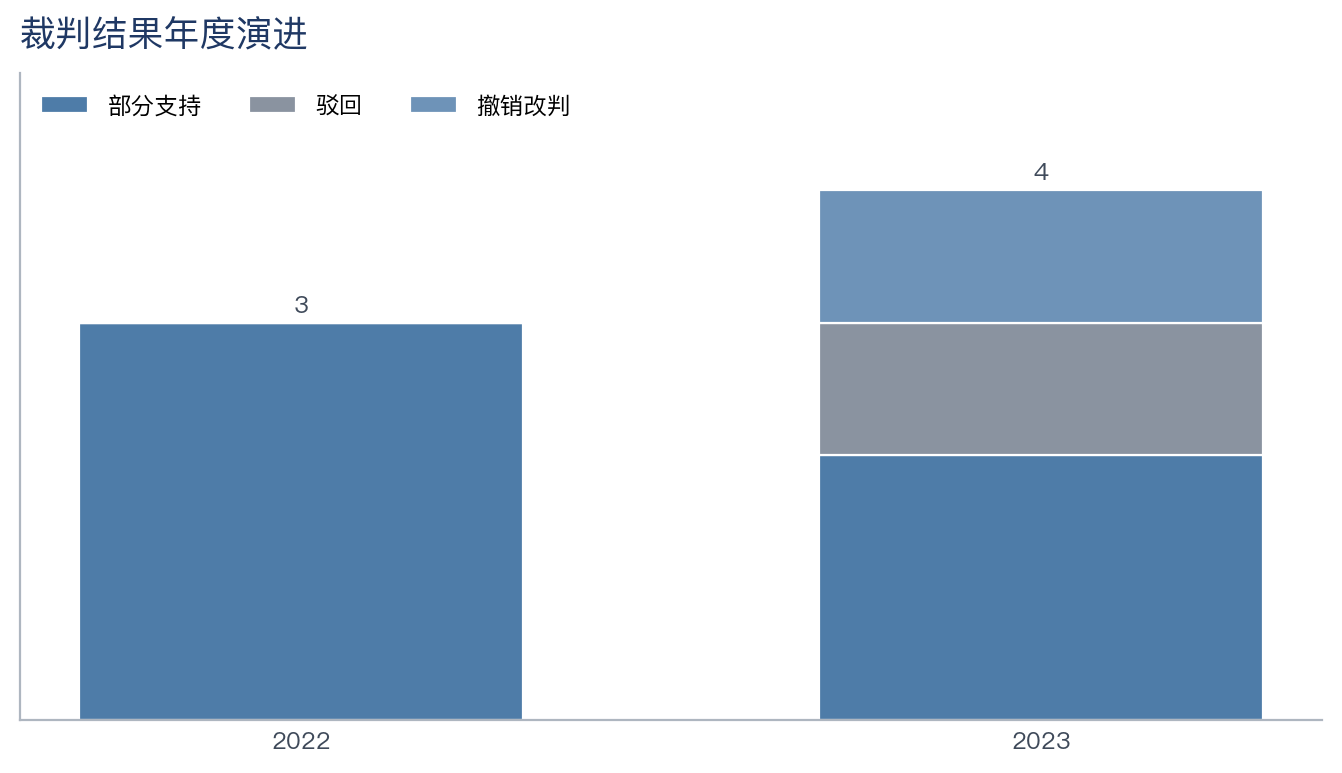
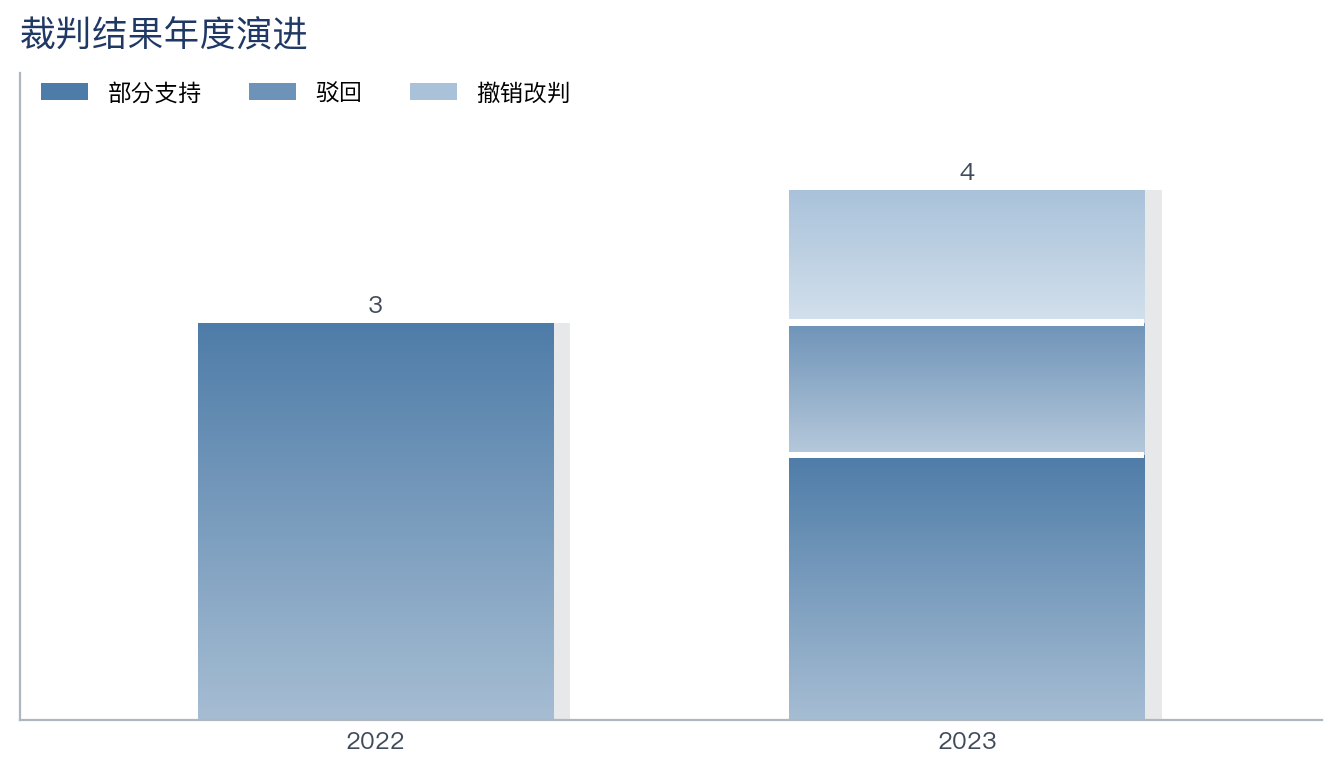
feat: 图表风格统一（堆叠柱渐变化）+ 实案报告证据线/理论展开规范固化
实战反馈第二轮：

- chart_theme.stacked_year 重写：与 hbar/vbar 同一视觉语言（冷蓝系渐变分段+整柱柔投影
  +白色细分隔线+图例 Patch）；RESULT_COLORS 去灰改全蓝系递进；_gbar_v 支持 y0 起点。
  两 demo 图表已按新风格重出。
- report-neutral 模板固化两项新规范：
  · 类案规则章深挖案五件套→六件套：新增④证据对照表（争议焦点|原告举证|被告举证|
    法院采信，未详列处如实标注）；
  · 全景章"①争点界定"必须含 100-200 字理论展开（制度功能+理论背景：信息过滤器/
    欺诈市场理论/看门人机制等），不得一句带过即进案例；
  · 实案模式控辩要点表后必配"控辩证据准备清单"（从法院实际采信证据归纳）。

diff --git a/scripts/chart_theme.py b/scripts/chart_theme.py
@@ -23,7 +23,8 @@ NAVY = "#1F3864"; BLUE2 = "#2E5A88"; BLUE3 = "#4E7CA8"; STEEL = "#6E93B8"; PALE 
 RED  = "#9B1B30"   # 强调（北大红系），仅用于单点高亮
 G1 = "#3F4A5A"; G2 = "#8A93A0"; G3 = "#AEB6C0"; G4 = "#E3E7EC"
 PALETTE = [NAVY, BLUE3, STEEL, BLUE2, PALE]            # 分类用（同色系递进）
-RESULT_COLORS = {"全部支持": NAVY, "部分支持": BLUE3, "驳回": G2, "撤销改判": STEEL}
+# 结果配色统一冷蓝系递进（不混灰），与渐变条形图视觉语言一致
+RESULT_COLORS = {"全部支持": NAVY, "部分支持": BLUE3, "驳回": STEEL, "撤销改判": PALE}
 
 _CJK_CANDIDATES = ["Noto Sans CJK SC", "Noto Sans CJK HK", "Noto Sans CJK JP",
                    "Source Han Sans SC", "PingFang SC", "Microsoft YaHei", "SimHei",
@@ -70,12 +71,14 @@ def _gbar_h(ax, y, w, base, h=0.6, shadow=True):
     clip = plt.Rectangle((0, y-h/2), w, h, fill=False, lw=0); ax.add_patch(clip); im.set_clip_path(clip)
     ax.add_patch(plt.Rectangle((0, y+h/2-h*0.10), w, h*0.10, facecolor="white", alpha=0.18, zorder=3, lw=0))
 
-def _gbar_v(ax, x, hgt, base, w=0.6, shadow=True):
+def _gbar_v(ax, x, hgt, base, w=0.6, shadow=True, y0=0.0):
+    if hgt <= 0:
+        return
     if shadow:
-        ax.add_patch(plt.Rectangle((x-w/2+0.03, 0), w, hgt, facecolor="#1b2733", alpha=0.10, zorder=1, lw=0))
+        ax.add_patch(plt.Rectangle((x-w/2+0.03, y0), w, hgt, facecolor="#1b2733", alpha=0.10, zorder=1, lw=0))
     light = "#%02x%02x%02x" % tuple(int(v*255) for v in _lighten(base, 0.5))
-    im = ax.imshow(_grad(light, base, False), extent=[x-w/2, x+w/2, 0, hgt], aspect="auto", zorder=2, origin="lower")
-    clip = plt.Rectangle((x-w/2, 0), w, hgt, fill=False, lw=0); ax.add_patch(clip); im.set_clip_path(clip)
+    im = ax.imshow(_grad(light, base, False), extent=[x-w/2, x+w/2, y0, y0+hgt], aspect="auto", zorder=2, origin="lower")
+    clip = plt.Rectangle((x-w/2, y0), w, hgt, fill=False, lw=0); ax.add_patch(clip); im.set_clip_path(clip)
 
 # ---------- 对外绘图原语 ----------
 def hbar_panel(ax, counter, title, color=NAVY, highlight_max=False):
@@ -110,21 +113,40 @@ def vbar_panel(ax, counter, title, color=NAVY):
     ax.set_title(title, loc="left", fontsize=10.5, fontweight="bold", color=G1, pad=6)
 
 def stacked_year(ax, years, data, title, cats=("全部支持", "部分支持", "驳回", "撤销改判")):
-    """堆叠柱：data = {类别: [各年计数]}。"""
+    """堆叠柱：data = {类别: [各年计数]}。
+    与 hbar/vbar 同一视觉语言：冷蓝系渐变分段 + 整柱柔投影 + 白色细分隔线。"""
     _style(ax); ax.set_yticks([])
-    bottom = [0]*len(years)
-    for c in cats:
-        vals = data.get(c)
-        if not vals or sum(vals) == 0:
-            continue
-        ax.bar(years, vals, bottom=bottom, label=c, color=RESULT_COLORS.get(c, NAVY),
-               width=0.6, edgecolor="white", linewidth=0.8)
-        bottom = [b+v for b, v in zip(bottom, vals)]
-    if not bottom or max(bottom) == 0:
+    n = len(years)
+    used = [c for c in cats if data.get(c) and sum(data[c]) > 0]
+    totals = [sum(data[c][i] for c in used) for i in range(n)]
+    if not totals or max(totals) == 0:
         return
-    mxb = max(bottom); ax.set_ylim(0, mxb*1.22)
-    ax.legend(frameon=False, fontsize=8.5, ncol=3, loc="upper left", bbox_to_anchor=(0, 1.0))
-    for i, hh in enumerate(bottom):
+    mxb = max(totals)
+    w = 0.6
+    # 整柱投影一次（避免分段投影叠加发黑）
+    for i, tot in enumerate(totals):
+        if tot:
+            ax.add_patch(plt.Rectangle((i-w/2+0.03, 0), w, tot,
+                                       facecolor="#1b2733", alpha=0.10, zorder=1, lw=0))
+    # 渐变分段 + 段顶白色细分隔线
+    for i in range(n):
+        y0 = 0.0
+        for c in used:
+            v = data[c][i]
+            if not v:
+                continue
+            _gbar_v(ax, i, v, RESULT_COLORS.get(c, NAVY), w=w, shadow=False, y0=y0)
+            y0 += v
+            if y0 < totals[i]:
+                ax.add_patch(plt.Rectangle((i-w/2, y0-mxb*0.006), w, mxb*0.012,
+                                           facecolor="white", zorder=3, lw=0))
+    ax.set_xticks(range(n)); ax.set_xticklabels(years)
+    ax.set_xlim(-0.6, n-0.4); ax.set_ylim(0, mxb*1.22)
+    from matplotlib.patches import Patch
+    ax.legend(handles=[Patch(facecolor=RESULT_COLORS.get(c, NAVY), label=c) for c in used],
+              frameon=False, fontsize=8.5, ncol=min(4, len(used)),
+              loc="upper left", bbox_to_anchor=(0, 1.02))
+    for i, hh in enumerate(totals):
         if hh:
             ax.text(i, hh + mxb*0.02, str(int(hh)), ha="center", fontsize=9, color=G1)
     ax.set_title(title, loc="left", fontsize=13, fontweight="bold", color=NAVY, pad=10)

diff --git a/skills/case-research/templates/report-neutral.md b/skills/case-research/templates/report-neutral.md
@@ -44,8 +44,10 @@
   （≥90 深挖 / 80–89 结构化简评 / 单争点参照另列），**每件深挖案固定五件套**（300–600 字起）：
   ① **基本案情**（一段完整叙事）；② **被告抗辩逻辑**（逐条列出）；③ **法院裁判逻辑**
   （**逐条对应②的抗辩**写明采纳/不采纳及理由——抗辩与裁判必须看得出一一对应）；
-  ④ **相似性评分表**（三要素量化量表，分项给分附理由，见 relevance-screening.md）；
-  ⑤ **参照要点与效力标注**（指导性案例"应当参照"并核查第九条例外，其余"可以参考"）。
+  ④ **证据对照表**（四列：争议焦点｜原告举证｜被告举证｜法院采信；判决书未详列处
+  以〔判决书未详列〕如实标注，不得臆造证据）；
+  ⑤ **相似性评分表**（三要素量化量表，分项给分附理由，见 relevance-screening.md）；
+  ⑥ **参照要点与效力标注**（指导性案例"应当参照"并核查第九条例外，其余"可以参考"）。
   后续章节顺延（裁判规则全景为三、综合分析为四…）。
 - **「裁判规则全景」章继承既有深度传统，不得因实案模式而缩水**：基于全样本（含全国检索），
   沿构成要件/争点体系逐节，**节内仍为四段**（①争点界定 ②主流裁判规则含代表案
@@ -85,7 +87,10 @@
 
 第二章沿 `01b_issues.md` 定稿的**争议焦点**逐个成节（焦点名与编码键一字不差），章首先放一张争点频次图 `![chart:issue_freq]`。先用 1–2 段写"案件整体概况"（时间/法院层级/地域/结果的整体倾向，把维度一交叉关联、维度四演进发现化成裁判规律句，配 `![chart:overview]`），随后每个焦点一节，节内固定四段：
 
-> ① **争点界定**：本焦点争什么、为何重要、两端立场各是什么。
+> ① **争点界定（含理论展开）**：本焦点争什么、为何重要、两端立场各是什么；**先用
+> 100–200 字交代该争点的制度功能与理论背景**（如重大性=信息过滤器、交易因果=欺诈市场
+> 理论、中介责任=看门人机制），让非本领域读者也能聚焦"这一块到底在讨论什么问题"，
+> 再进入规则梳理——不得只写一句"争什么"就进案例。
 > ② **主流裁判规则（含代表案例）**：规则是什么 → 法院凭什么这么判（请求权基础与法条、法理与举证结构）→ 代表案如何落地。每个焦点配 **2 件支持主流立场的代表案**（脚注带案号链接），把"哪些案子支持该规则"坐实。
 > ③ **例外与反向情形**：反向/少数观点、抗辩成立的个案、推定的推翻路径，配 **2 件反向立场代表案**（对称呈现，体现分歧）。
 > ④ **小结**：本焦点的主流规则 + 分歧所在（维度五分歧地图的法律解读）。
@@ -120,12 +125,15 @@
 > 地域闸门裁定（全国样本多数省份仅 1–2 件，闸门通常收紧），措辞照抄其 `措辞` 字段口径，
 > **绝不为凑差异而编造地域分歧**。学理模式**不设**控辩诉讼要点指引表。
 
-**（二·实案模式）控辩诉讼要点指引**
+**（二·实案模式）控辩诉讼要点指引 ＋ 控辩证据准备清单**
 
 > 编写要求（**仅为指引，不得写入成品标题或正文**）：客观并列双方着力点即可，不替任一方设计策略；标题保持为"控辩诉讼要点指引"本身，**禁止**在标题后追加"（中立呈现…）""（不为任一方代言）"等元叙述括注。
 
 | 争议焦点 | 权利人（原告）着力点 | 平台/被告（被告）着力点 |
 |---|---|---|
+
+要点表后**紧接一张"控辩证据准备清单"表**（争议焦点｜原告应备证据｜被告应备证据），
+证据类型从**样本中法院实际采信的证据**归纳（与各深挖案的证据对照表呼应），不凭空开列。
 
 两表的"分歧/反向"列与控辩要点须与正文一致；分歧列无实质分歧时如实写"本批无明显分歧"，**不得为凑差异而编造**。
 